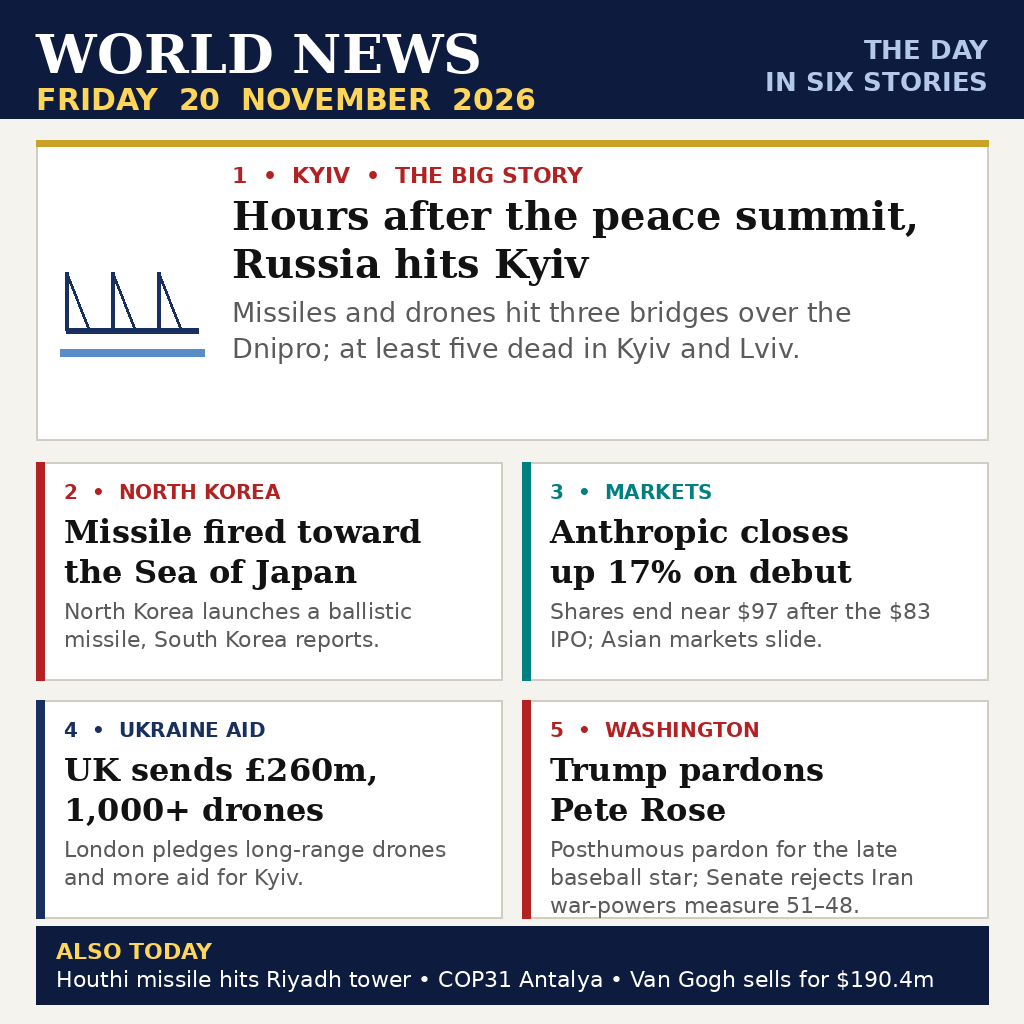
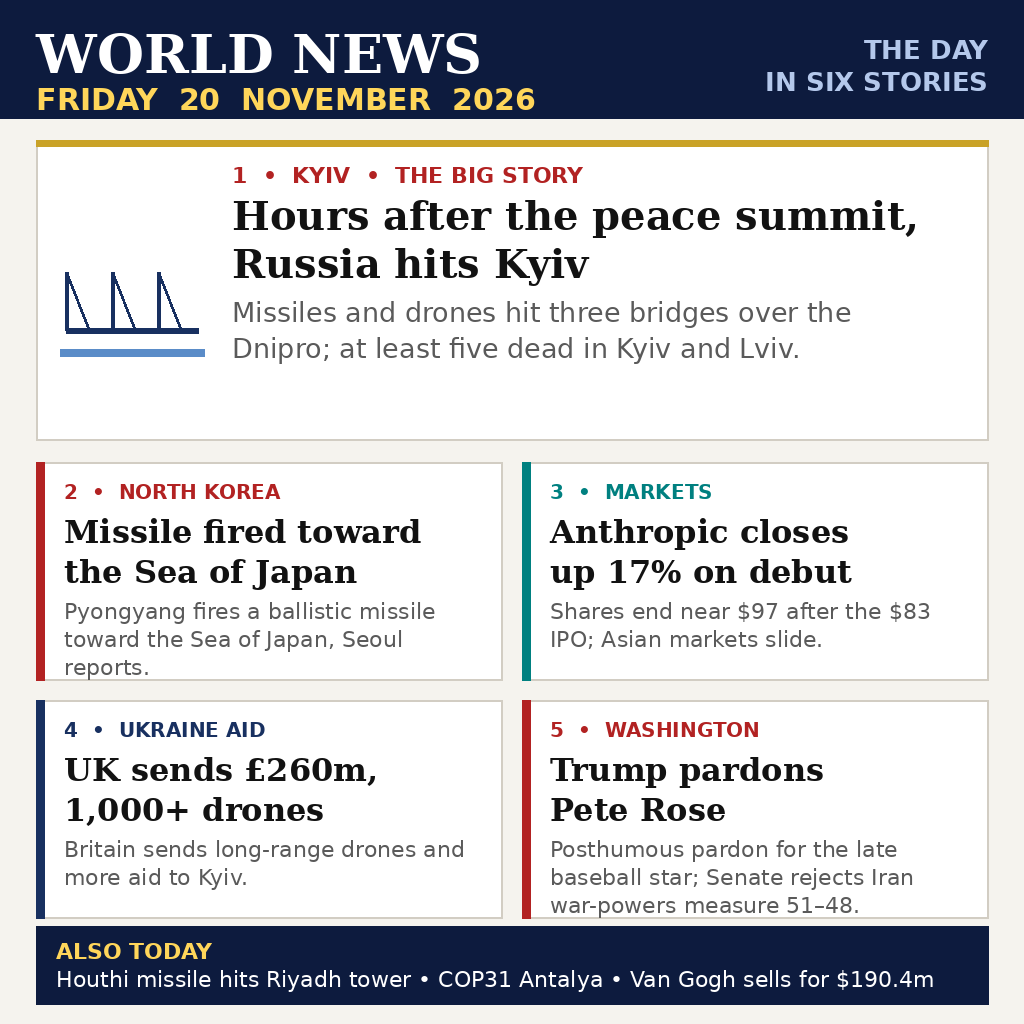
Sharper panel copy: name the direction, name the sender

Changed region(s): [[0.0625, 0.8125, 0.4688, 0.875], [0.0625, 0.5938, 0.4062, 0.6562]]

diff --git a/draw.py b/draw.py
@@ -110,7 +110,7 @@ PANELS = [
     {
         "kick": "2  \u2022  NORTH KOREA",
         "head": ("Missile fired toward", "the Sea of Japan"),
-        "body": "North Korea launches a ballistic missile, South Korea reports.",
+        "body": "Pyongyang fires a ballistic missile toward the Sea of Japan, Seoul reports.",
         "color": "crimson",
     },
     {
@@ -122,7 +122,7 @@ PANELS = [
     {
         "kick": "4  \u2022  UKRAINE AID",
         "head": ("UK sends \u00a3260m,", "1,000+ drones"),
-        "body": "London pledges long-range drones and more aid for Kyiv.",
+        "body": "Britain sends long-range drones and more aid to Kyiv.",
         "color": "steel",
     },
     {
